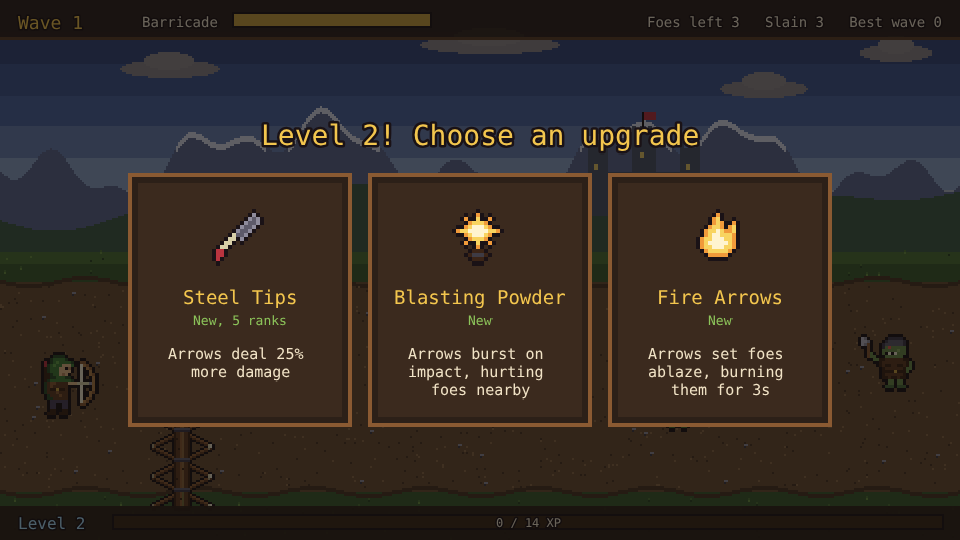
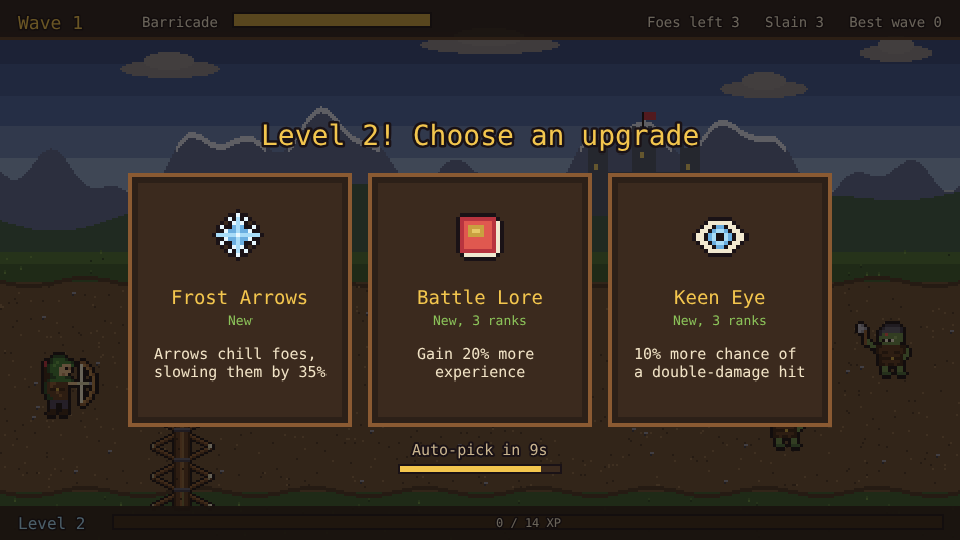
Palisade: level-ups pick an upgrade on their own after 10 seconds (#75)
A countdown under the level-up cards shows the seconds left over an emptying bar. If no card is tapped in time, one of the offered upgrades is taken at random and the battle goes on. Each level-up, including one waiting after a reload or a fall, gets the full 10 seconds.

Requested by Chriszly

Created with Claude Opus 5.5 (low)

diff --git a/games/palisade/src/ui/LevelUp.ts b/games/palisade/src/ui/LevelUp.ts
@@ -1,7 +1,8 @@
 import Phaser from 'phaser';
 import { iconTexture } from '../art/icons';
-import { CARDS, FONT, UI_DEPTH, VIEW } from '../scenes/layout';
+import { CARDS, COUNTDOWN, FONT, UI_DEPTH, VIEW } from '../scenes/layout';
 import { UPGRADES, type UpgradeId } from '../game/upgrades';
+import { AUTO_PICK_MS } from '../game/sim';
 
 /** Where a card is on screen and which upgrade it offers; read by the playthrough test. */
 export interface CardSpot {
@@ -13,12 +14,15 @@ export interface CardSpot {
 }
 
 /**
- * The level-up choice: the battle dims and three upgrade cards come up. Tapping one takes it.
+ * The level-up choice: the battle dims and three upgrade cards come up. Tapping one takes it; a
+ * small countdown under the cards shows when one is taken at random instead.
  */
 export class LevelUp {
   private root: Phaser.GameObjects.Container;
   private shown: UpgradeId[] | null = null;
   private title: Phaser.GameObjects.Text;
+  private countdown: Phaser.GameObjects.Text;
+  private timer: Phaser.GameObjects.Graphics;
   cards: CardSpot[] = [];
 
   constructor(
@@ -29,11 +33,19 @@ export class LevelUp {
     this.title = scene.add
       .text(VIEW.w / 2, CARDS.y - CARDS.h / 2 - 40, '', { fontFamily: FONT, fontSize: '28px', color: '#f3c64e', stroke: '#1a1216', strokeThickness: 5 })
       .setOrigin(0.5);
-    this.root = scene.add.container(0, 0, [dim, this.title]).setDepth(UI_DEPTH + 10).setVisible(false);
+    this.countdown = scene.add
+      .text(VIEW.w / 2, COUNTDOWN.y, '', { fontFamily: FONT, fontSize: '15px', color: '#c9b48f', stroke: '#1a1216', strokeThickness: 4 })
+      .setOrigin(0.5);
+    this.timer = scene.add.graphics();
+    this.root = scene.add.container(0, 0, [dim, this.title, this.countdown, this.timer]).setDepth(UI_DEPTH + 10).setVisible(false);
   }
 
-  /** Shows these choices, or hides the panel for null. Rebuilds the cards only when they change. */
-  show(choices: UpgradeId[] | null, ranks: Partial<Record<UpgradeId, number>>, level: number, more: number) {
+  /**
+   * Shows these choices with `pickMs` left to pick, or hides the panel for null. Rebuilds the cards
+   * only when they change.
+   */
+  show(choices: UpgradeId[] | null, ranks: Partial<Record<UpgradeId, number>>, level: number, more: number, pickMs: number) {
+    if (choices) this.drawCountdown(pickMs);
     if (choices?.join() === this.shown?.join()) return;
     this.shown = choices ? [...choices] : null;
     this.root.each((child: Phaser.GameObjects.GameObject) => {
@@ -44,6 +56,17 @@ export class LevelUp {
     if (!choices) return;
     this.title.setText(more > 1 ? `Level ${level}! Choose an upgrade (${more} to pick)` : `Level ${level}! Choose an upgrade`);
     choices.forEach((id, i) => this.addCard(id, CARDS.xs[i], ranks[id] ?? 0));
+  }
+
+  /** The seconds left, rounded up, over a bar that empties as the time to pick runs out. */
+  private drawCountdown(pickMs: number) {
+    this.countdown.setText(`Auto-pick in ${Math.ceil(pickMs / 1000)}s`);
+    const { x, y, w, h } = COUNTDOWN;
+    const left = Phaser.Math.Clamp(pickMs / AUTO_PICK_MS, 0, 1);
+    this.timer.clear();
+    this.timer.fillStyle(0x1a1216).fillRect(x - w / 2 - 2, y + 14, w + 4, h + 4);
+    this.timer.fillStyle(0x3b2a1e).fillRect(x - w / 2, y + 16, w, h);
+    this.timer.fillStyle(0xf3c64e).fillRect(x - w / 2, y + 16, Math.round(w * left), h);
   }
 
   private addCard(id: UpgradeId, x: number, rank: number) {

diff --git a/games/palisade/src/game/sim.ts b/games/palisade/src/game/sim.ts
@@ -33,15 +33,25 @@ const HIT_FLASH_MS = 90;
 const VIEW_RIGHT = 950;
 /** How long each kind of effect plays, in milliseconds. */
 const EFFECT_MS = { blast: 260, fireblast: 360, bolt: 220, death: 320, crit: 400 } as const;
+/** How long a level-up waits for a tap before it takes one of the offered upgrades at random. */
+export const AUTO_PICK_MS = 10_000;
 
 export function tick(state: GameState, ms: number) {
-  // The battle waits while the hero picks an upgrade, and once the run is over.
-  while (ms > 0 && !state.choices && state.phase !== 'over') {
+  while (ms > 0 && state.phase !== 'over') {
+    if (state.choices) {
+      // The battle waits while the hero picks an upgrade, until the time to pick runs out.
+      const dt = Math.min(ms, state.pickMs);
+      state.pickMs -= dt;
+      ageEffects(state, dt);
+      ms -= dt;
+      if (state.pickMs <= 0) pick(state, state.choices[Math.floor(Math.random() * state.choices.length)]);
+      continue;
+    }
     const dt = Math.min(ms, SUBSTEP_MS);
     step(state, dt);
     ms -= dt;
   }
-  // Effects still play out while the battle waits.
+  // Effects still play out once the run is over.
   if (ms > 0) ageEffects(state, ms);
 }
 
@@ -283,7 +293,13 @@ function gainXp(state: GameState, xp: number) {
     state.level++;
     state.levelUps++;
   }
-  if (state.levelUps > 0 && !state.choices) state.choices = rollChoices(state);
+  if (state.levelUps > 0 && !state.choices) offer(state);
+}
+
+/** Puts three upgrades up for the next pending level-up and starts the time to pick one. */
+export function offer(state: GameState) {
+  state.choices = rollChoices(state);
+  state.pickMs = AUTO_PICK_MS;
 }
 
 /** Three different upgrades to choose from, with fillers once fewer than three are left. */
@@ -303,7 +319,8 @@ export function pick(state: GameState, id: UpgradeId) {
   if (id === 'timber') state.barricade = { hp: barricadeMax, max: barricadeMax };
   if (id === 'mend') state.barricade.hp = Math.min(state.barricade.max, state.barricade.hp + state.barricade.max / 2);
   state.levelUps--;
-  state.choices = state.levelUps > 0 ? rollChoices(state) : null;
+  state.choices = null;
+  if (state.levelUps > 0) offer(state);
   return true;
 }
 
@@ -325,7 +342,11 @@ function gameOver(state: GameState) {
 /** After a fall, a new run from wave 1 with the hero's level and upgrades kept. */
 export function fightAgain(state: GameState): GameState {
   const next = newRun(progressOf(state));
-  if (next.levelUps > 0) next.choices = state.choices ?? rollChoices(next);
+  if (next.levelUps > 0) {
+    // The same cards stay up, with the full time to pick again.
+    next.choices = state.choices ?? rollChoices(next);
+    next.pickMs = AUTO_PICK_MS;
+  }
   return next;
 }
 

diff --git a/games/palisade/src/scenes/GameScene.ts b/games/palisade/src/scenes/GameScene.ts
@@ -4,7 +4,7 @@ import { foeTexture } from '../art/characters';
 import { BAR, BOSS_BARS, FIRE, STORM } from '../art/palette';
 import { ENEMIES } from '../game/enemies';
 import { clearProgress, loadProgress, saveProgress } from '../game/save';
-import { fightAgain, pick, rollChoices, tick } from '../game/sim';
+import { fightAgain, offer, pick, tick } from '../game/sim';
 import { freshProgress, newRun, progressOf, stats, xpToNext, type Enemy, type GameState } from '../game/state';
 import type { UpgradeId } from '../game/upgrades';
 import { isBossWave } from '../game/waves';
@@ -61,7 +61,7 @@ export class GameScene extends Phaser.Scene {
     this.missiles.clear();
     this.crits.clear();
     this.state = newRun(loadProgress());
-    if (this.state.levelUps > 0) this.state.choices = rollChoices(this.state);
+    if (this.state.levelUps > 0) offer(this.state);
 
     this.add.image(0, 0, 'background').setOrigin(0);
     this.hero = this.add.image(HERO_FEET.x, HERO_FEET.y, 'hero').setOrigin(0.5, 1).setDepth(HERO_FEET.y);
@@ -84,14 +84,14 @@ export class GameScene extends Phaser.Scene {
     const levelUps = s.levelUps;
     tick(s, dt);
     if (!s.choices && s.phase !== 'over') this.clock += dt;
-    if (s.phase !== phase || s.wave !== wave || s.levelUps > levelUps) saveProgress(progressOf(s));
+    if (s.phase !== phase || s.wave !== wave || s.levelUps !== levelUps) saveProgress(progressOf(s));
 
     this.drawFoes();
     this.drawMissiles();
     this.drawEffects();
     this.drawHero();
     this.drawHud();
-    this.levelUp.show(s.phase === 'over' ? null : s.choices, s.ranks, s.level - s.levelUps + 1, s.levelUps);
+    this.levelUp.show(s.phase === 'over' ? null : s.choices, s.ranks, s.level - s.levelUps + 1, s.levelUps, s.pickMs);
     this.gameOver.setVisible(s.phase === 'over');
     if (s.phase === 'over') {
       this.gameOverText.setText(

diff --git a/games/palisade/e2e/playthrough.spec.ts b/games/palisade/e2e/playthrough.spec.ts
@@ -19,6 +19,7 @@ interface GameState {
   enemies: { id: number; kind: Kind; x: number; y: number; hp: number; maxHp: number }[];
   missiles: { id: number; kind: string }[];
   choices: string[] | null;
+  pickMs: number;
   kills: number;
 }
 type Card = { id: string; x: number; y: number; w: number; h: number };
@@ -29,6 +30,8 @@ const XP: Record<Kind, number> = { goblin: 2, orc: 4, knight: 10, troll: 60 };
 const xpToNext = (level: number) => 8 + 6 * (level - 1);
 /** Wave 1 is three goblins and three orcs, from src/game/waves.ts; an orc always comes first. */
 const WAVE_1 = { goblin: 3, orc: 3 };
+/** How long a level-up waits for a tap before taking a card at random, from src/game/sim.ts. */
+const AUTO_PICK_MS = 10_000;
 
 /**
  * Game time per animation frame, every frame the same length. Longer frames mean fewer to draw, so
@@ -180,6 +183,10 @@ test('plays the first wave', async ({ page }, testInfo) => {
   await play(1_000, async () => false);
   const waited = await game.state();
   expect(waited.enemies, 'the battle waits for the pick').toEqual(s.enemies);
+  // A countdown runs while the cards are up, after which one is taken at random; this tap beats it.
+  expect(s.pickMs).toBeLessThanOrEqual(AUTO_PICK_MS);
+  expect(waited.pickMs).toBeLessThan(s.pickMs - 900);
+  expect(waited.pickMs).toBeGreaterThan(0);
   await snap('1-level-up');
 
   // Tapping a card takes its upgrade and the battle goes on.

diff --git a/games/palisade/src/game/state.ts b/games/palisade/src/game/state.ts
@@ -98,6 +98,8 @@ export interface GameState {
   cooldown: { arrow: number; fireball: number; storm: number };
   /** The three upgrades offered for the next level-up; the battle waits until one is picked. */
   choices: UpgradeId[] | null;
+  /** Time left before one of `choices` is taken at random, if none is tapped. */
+  pickMs: number;
   kills: number;
   nextId: number;
 }
@@ -156,6 +158,7 @@ export function newRun(progress: Progress): GameState {
     effects: [],
     cooldown: { arrow: 0, fireball: 0, storm: 0 },
     choices: null,
+    pickMs: 0,
     kills: 0,
     nextId: 1,
   };

diff --git a/games/palisade/src/scenes/layout.ts b/games/palisade/src/scenes/layout.ts
@@ -11,6 +11,8 @@ export const XP_BAR = { x: 112, y: 514, w: 832, h: 16 };
 export const BOSS_BAR = { x: 480, y: 66, w: 420, h: 14 };
 /** The three upgrade cards on a level-up, by their centres. */
 export const CARDS = { xs: [240, 480, 720], y: 300, w: 220, h: 250 };
+/** The auto-pick countdown under the cards: its text's centre, and the width and height of its bar. */
+export const COUNTDOWN = { x: 480, y: 450, w: 160, h: 6 };
 export const BUTTON = { w: 180, h: 40 };
 
 export const UI_DEPTH = 10_000;

diff --git a/games/palisade/AGENTS.md b/games/palisade/AGENTS.md
@@ -8,7 +8,7 @@ root AGENTS.md asks.
 
 Palisade is a one-screen wave defense game. A ranger who cannot move shoots on their own from
 behind a barricade at foes walking in from the right. Each kill gives experience, and each level-up
-pauses the battle on a pick of three upgrades.
+pauses the battle on a pick of three upgrades, taking one at random after 10 seconds without a tap.
 
 - **Loop:** a break with the wave's banner, then the wave's foes come on one by one. Clearing it
   repairs a tenth of the barricade and starts the next break. Foes hack at the barricade, and once
@@ -24,8 +24,8 @@ pauses the battle on a pick of three upgrades.
     shows fewer than three cards. The README says the filler "fills the gaps".
   - `GameState.version` (`VERSION`) is never read, and the save holds no version, so there is no
     migration path.
-  - Progress is only saved when the phase or wave changes, on a level-up and on a pick. Experience
-    and kills gained mid-wave are lost on a reload.
+  - Progress is only saved when the phase or wave changes, on a level-up and on a pick (tapped or
+    auto). Experience and kills gained mid-wave are lost on a reload.
   - `HERO` in `src/game/state.ts` is unused (the scene draws the hero at `HERO_FEET`).
   - There is no sound, pause or in-game settings panel (only the hub's shared settings, see Hub
     settings), and the hero has a single frame.
@@ -41,8 +41,9 @@ pauses the battle on a pick of three upgrades.
   - `state.ts`: `GameState` and its parts, field geometry (`FIELD`, `SPAWN_X`, `BOW`,
     `HERO_FRONT`, `BARRICADE_FRONT`), `xpToNext`, `stats` (all upgrade effects), `newRun`,
     `Progress`, `progressOf`, `offerable`.
-  - `sim.ts`: `tick` (the battle), `pick`, `rollChoices`, `fightAgain`, and the private steps:
-    spawning, shooting, missiles, damage, foe movement, experience, wave clear, game over.
+  - `sim.ts`: `tick` (the battle and the auto-pick countdown), `pick`, `offer`, `rollChoices`,
+    `fightAgain`, `AUTO_PICK_MS`, and the private steps: spawning, shooting, missiles, damage, foe
+    movement, experience, wave clear, game over.
   - `enemies.ts`: the `ENEMIES` table of wave 1 stats per `EnemyKind`.
   - `upgrades.ts`: the `UPGRADES` table, `UpgradeId`, `Icon` and `UPGRADE_IDS`.
   - `waves.ts`: `waveFoes`, `foeHp` (scaled by difficulty), `hpScale`, `bossBars`,
@@ -52,8 +53,9 @@ pauses the battle on a pick of three upgrades.
 - `src/scenes/GameScene.ts`: owns the `GameState`, ticks it each frame, draws it, saves progress
   and handles restart.
 - `src/scenes/layout.ts`: screen positions (`HERO_FEET`, `BARRICADE`, `XP_BAR`, `BOSS_BAR`,
-  `CARDS`, `BUTTON`), `HUD_HEIGHT`, `UI_DEPTH`, `FONT`.
-- `src/ui/LevelUp.ts`: the level-up overlay and its cards. It records each card's spot in `cards`.
+  `CARDS`, `COUNTDOWN`, `BUTTON`), `HUD_HEIGHT`, `UI_DEPTH`, `FONT`.
+- `src/ui/LevelUp.ts`: the level-up overlay, its cards and the auto-pick countdown (seconds left
+  over an emptying bar, at `COUNTDOWN`). It records each card's spot in `cards`.
 - `src/ui/Button.ts`: `makeButton`, the wooden button used on the game-over panel.
 - `src/art/`: pixel art drawn in code. `pixelArt.ts` has `bakePixelArt`, `PixelCanvas` and the
   seeded generator `seeded`. `characters.ts` has the hero, foes (two walk frames, `foeTexture`)
@@ -72,14 +74,18 @@ pauses the battle on a pick of three upgrades.
 - **Tick:** `GameScene.update(time)` takes `dt` from the frame timestamp (not Phaser's smoothed
   delta), clamped to `MAX_STEP_MS` (250). It calls `tick(state, dt)`, which runs `step` in
   substeps of at most `SUBSTEP_MS` (16) and stops while `choices` is set or the run is over. Only
-  effects keep ageing then. The scene keeps its own `clock`, used only for animation phases and
-  blinking, and it stops during a pick and after a fall.
+  effects keep ageing then. While `choices` is set, `tick` counts `pickMs` down instead, and when
+  it reaches 0 it calls `pick` with one of `choices` chosen by `Math.random`; any time left in the
+  frame then goes on to the battle (or the next level-up's countdown). The scene keeps its own
+  `clock`, used only for animation phases and blinking, and it stops during a pick and after a
+  fall.
 - **Order inside `step`:** age effects, then the break countdown or spawning, then `shoot`,
   `moveMissiles`, `moveEnemies`, and finally the wave-clear check. Arrows home, turning fully
   towards their target every substep.
 - **Input:** the only input is a tap. A tap on a level-up card calls `GameScene.pick`, which calls
-  `pick` in `sim.ts`. "Fight again" and "New hero" call `restart`. Shooting is automatic. A dimming
-  rectangle under each overlay is interactive, so taps on the battle are swallowed.
+  `pick` in `sim.ts`. Without a tap, `tick` picks after `AUTO_PICK_MS` (10 s). "Fight again" and
+  "New hero" call `restart`. Shooting is automatic. A dimming rectangle under each overlay is
+  interactive, so taps on the battle are swallowed.
 - **Rendering:** sprites are diffed by id. `foes` and `missiles` are `Map`s of images, and crit
   texts are `crits`. Each is created, updated or destroyed to match the state every frame.
   Health bars, flames, blasts, bolts and the HUD are `Graphics` that are cleared and redrawn every
@@ -90,14 +96,17 @@ pauses the battle on a pick of three upgrades.
 - `GameState` (`src/game/state.ts`) has two halves. The progress fields (`level`, `xp`, `ranks`,
   `levelUps`, `bestWave`, `runs`) form `Progress`. The run fields are `wave`, `phase`
   (`'break' | 'fighting' | 'over'`), `breakMs`, `toSpawn`, `spawnMs`, `barricade`, `enemies`,
-  `missiles`, `effects`, `cooldown`, `choices`, `kills` and `nextId`.
+  `missiles`, `effects`, `cooldown`, `choices`, `pickMs` (time left to pick before the auto-pick),
+  `kills` and `nextId`.
 - `Enemy` holds its position, `hp`/`maxHp`, boss `bars`, slow and burn timers, `attacking` and
   `hitMs`. `Missile` is an arrow or a fireball with a homing `target`, a `hit` list and `pierce`.
   `Effect` is a short-lived visual with `ms`/`total`.
 - Hero stats are never stored. `stats(state)` derives them from `ranks` each time.
 - Only `sim.ts` mutates state during play. The scene only replaces it wholesale (`newRun`,
-  `fightAgain`) and sets `choices` on load when level-ups are pending.
-- **Invariants:** `choices` is set while `levelUps > 0`, and the battle is frozen then. Foe,
+  `fightAgain`) and calls `offer` on load when level-ups are pending.
+- **Invariants:** `choices` is set while `levelUps > 0`, and the battle is frozen then. Every
+  place that sets `choices` (`offer`, `fightAgain`) also resets `pickMs` to `AUTO_PICK_MS`, so
+  each level-up gets the full 10 seconds. The countdown also stops while the run is over. Foe,
   missile and effect ids share the one `nextId` counter. A boss's `maxHp` is its per-bar health
   times `bars`. Foes spawn at `SPAWN_X` plus their radius and are only targeted once
   `x < VIEW_RIGHT` (950).
@@ -110,8 +119,9 @@ The run itself (wave, foes, barricade) is never saved, so a reload starts at wav
 
 ### Randomness and timing
 
-- `Math.random` is used in exactly four places, all in `src/game/`. In `sim.ts`: `spawn` (a foe's
-  y), `arrowHit` (crit roll, called on every arrow hit even at 0% crit) and `rollChoices`. In
+- `Math.random` is used in exactly five places, all in `src/game/`. In `sim.ts`: `spawn` (a foe's
+  y), `arrowHit` (crit roll, called on every arrow hit even at 0% crit), `rollChoices` and the
+  auto-pick in `tick` (only when the countdown runs out). In
   `waves.ts`: `waveFoes` (shuffle). Art uses its own `seeded` generator, so it does not touch the
   sequence.
 - Time comes only from Phaser's frame timestamp in `GameScene.update`. There are no timers or
@@ -159,12 +169,13 @@ Missile speeds, `LEAP_RANGE`, `BARRICADE_REPAIR` and effect durations (`EFFECT_M
   - An arrow is fired and hits.
   - Earned experience equals the summed foe `xp`.
   - The first level-up lands at level 2 with three distinct choices that match the card ids, and
-    the foes do not move while it waits.
+    the foes do not move while it waits. `pickMs` counts down (by more than 0.9 s over the 1 s
+    wait) and stays above 0, so the tap beats the auto-pick; the auto-pick itself is not played.
   - Tapping the first card sets that rank to 1.
   - At most two more level-ups in wave 1, then wave 2 in `'break'` with `bestWave` 1, 6 kills,
     18 experience earned and the barricade above 0.
 - **Mirrored in the test:** `VIEW`, each foe's `xp`, `xpToNext`, the wave 1 makeup and the field
-  names of `GameState`. A change to `ENEMIES` xp, `xpToNext`, `waveFoes` for wave 1, `VIEW`,
+  names of `GameState`, and `AUTO_PICK_MS`. A change to `ENEMIES` xp, `xpToNext`, `waveFoes` for wave 1, `VIEW`,
   `CARDS` or those state fields needs a test update in the same PR.
 - **Seeded random:** the test seeds `Math.random`. The upgrades offered, and so the card tapped,
   depend on the exact sequence of random calls. The exact-experience checks only hold if no

diff --git a/games/palisade/README.md b/games/palisade/README.md
@@ -14,7 +14,7 @@ the experience bar, and every level-up pauses the battle on three upgrades to pi
 
 | Control | Action |
 | --- | --- |
-| Tap or click a card | Take that upgrade when a level-up comes up |
+| Tap or click a card | Take that upgrade when a level-up comes up (after 10 seconds one is taken at random) |
 | Fight again / New hero | After a fall: start again from wave 1 keeping the hero, or with a new one |
 
 1. **Waves**: each wave brings more foes than the last, with more health. A short break with the
@@ -22,7 +22,8 @@ the experience bar, and every level-up pauses the battle on three upgrades to pi
 2. **The barricade** stops the foes, who hack at it until it breaks, losing stakes as it goes. Once
    it is splinters they walk on to the hero, and **the run is over when a foe reaches the hero**.
 3. **Experience and level-ups**: each foe gives experience when it falls. A full bar is a level,
-   and the battle waits while three different upgrades are offered.
+   and the battle waits while three different upgrades are offered. A countdown under the cards
+   shows the time left: after 10 seconds without a tap, one of them is taken at random.
 4. **The hero is kept**: level, experience and every upgrade picked carry over to the next run,
    which starts again at wave 1. They are saved in the browser. "New hero" starts from scratch.
 
